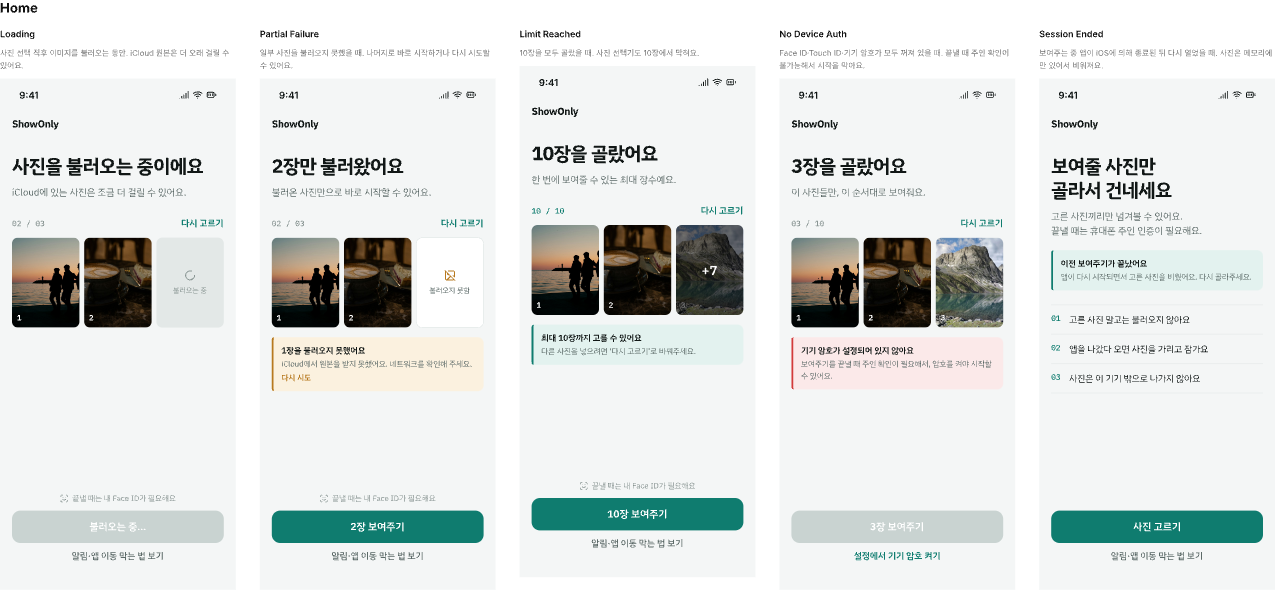
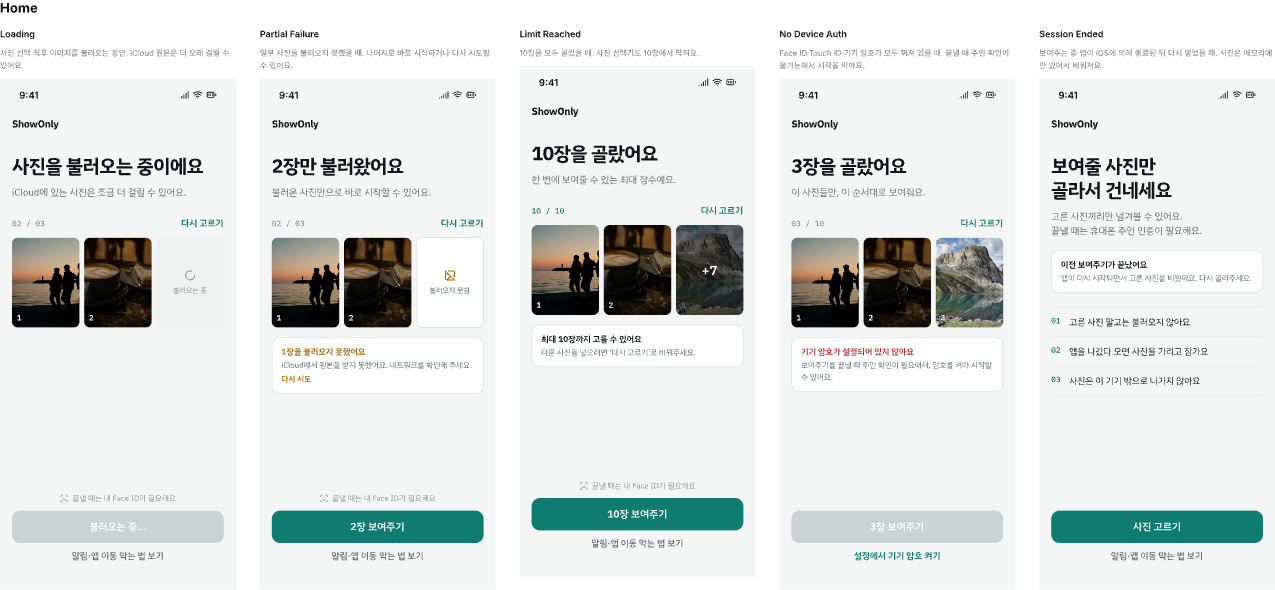
Design: refine feedback colors to neutral surface + tone text

diff --git a/design/README.md b/design/README.md
@@ -23,7 +23,7 @@
 | separator | #E2E8E7 |
 | lock-bg / lock-text / lock-text-2 | #0B0F0F / #F1F5F4 / #97A6A3 |
 | lock-primary / lock-on-primary | #3CC7AE / #04211C |
-| danger | #D23B3B |
+| danger | #CE2C31 (텍스트용) |
 | radius | 10 / 14 / 20 |
 | spacing | 4 / 8 / 12 / 16 / 24 / 32, 좌우 여백 20 (잠금 24) |
 | 타이포 | Large 32–34 Bold(-0.8), Section 19 Bold, Body 16–17, Sub 15, Caption 13. 숫자 Mono 13 |
@@ -54,4 +54,4 @@
 | Lock / Biometry Locked, Face ID Unavailable | 생체 인증 잠김·불가 — 기기 암호 버튼만 |
 | Lock / Touch ID | 홈 버튼 기기 — 글리프·문구만 교체 |
 
-컴포넌트: `Banner/Info|Warning|Error`(좌측 3px 스트로크), `Photo/Loading`, `Photo/Failed`.
+컴포넌트: `Banner/Info|Warning|Error`(흰 표면 + 1px 헤어라인 #D7DAD9, 톤 색은 제목·액션에만: warning #AB6400, danger #CE2C31 — Radix step 11. 잠금 화면용 다크 변형: surface #131919, hairline #243030, danger #FF9592), `Photo/Loading`, `Photo/Failed`.
